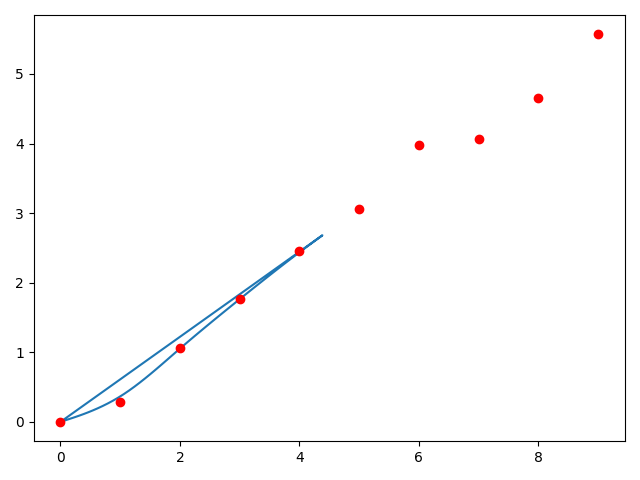
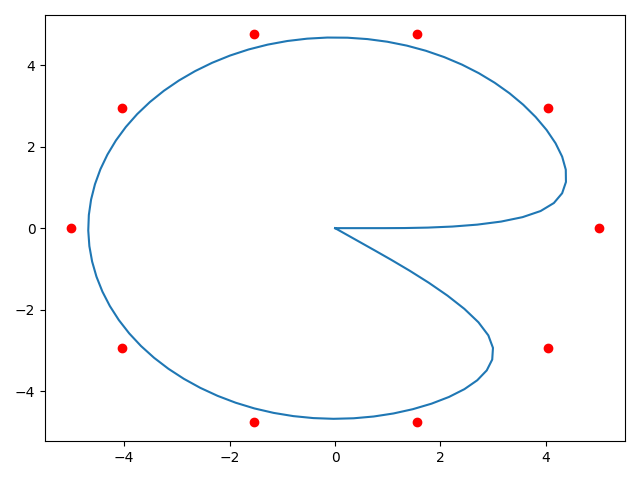
e7p1

diff --git a/exercise07/plotParametricSpline.py b/exercise07/plotParametricSpline.py
@@ -4,7 +4,7 @@ import matplotlib.pyplot as plt
 
 def spline(i,k,t,ti):
     """
-    Return the i-th spline of degree k within range [ t[i] , t[i+1] ).
+    Return the i-th spline of degree k within range [ ti[i] , ti[i+1] ).
     i: int, the index of the left endpoint of the spline
     k: int, the degree of the spline
     t: double, the evaluation point of the spline
@@ -107,30 +107,34 @@ def test_parametric_spline():
     # Colormap
     c = [plt.cm.tab10(i) for i in range(10)]
 
-    # Number of segments
-    n = 9
+    # Number of knots
+    n = 14
+    # Spline degree
+    k = 3
+    # Number of control points
+    m = n - k - 1
 
     # Knot values between 0 and 1
-    ti = np.linspace(0,1,n+1)
+    ti = np.linspace(0,1,n)
 
     # Control points
-    xi = np.linspace(0,n,n+1)
-    yi = np.zeros(n+1)
-    for i in range(1,n+1):
-        yi[i] = yi[i-1] + np.random.uniform(0,1)
+    theta = np.linspace(0, 2 * np.pi, m, endpoint=False)
+    radius = 5  # Radius of the circle
+    xi = radius * np.cos(theta)
+    yi = radius * np.sin(theta)
 
     # Parametric spline
-    def x(t,ti,xi,n):
+    def x(t,ti,xi,m):
         S = Z
-        for i in range(n):
-            S += xi[i] * spline(i,3,t,ti)
+        for i in range(m):
+            S += xi[i] * spline(i,k,t,ti)
         return S(t)
 
 
-    def y(t,ti,yi,n):
+    def y(t,ti,yi,m):
         S = Z
-        for i in range(n):
-            S += yi[i] * spline(i,3,t,ti)
+        for i in range(m):
+            S += yi[i] * spline(i,k,t,ti)
         return S(t)
 
 
@@ -140,8 +144,12 @@ def test_parametric_spline():
     Y = np.zeros(100)
 
     for t in range(100):
-        X[t] = x(t/100,ti,xi,n)
-        Y[t] = y(t/100,ti,yi,n)
+    #    print(t)
+        X[t] = x(t/100,ti,xi,m)
+        Y[t] = y(t/100,ti,yi,m)
+
+    #print("X:", X)
+    #print("Y:", Y)
 
     plt.plot(X,Y, color=c[0])
     plt.plot(xi,yi, 'ro')
